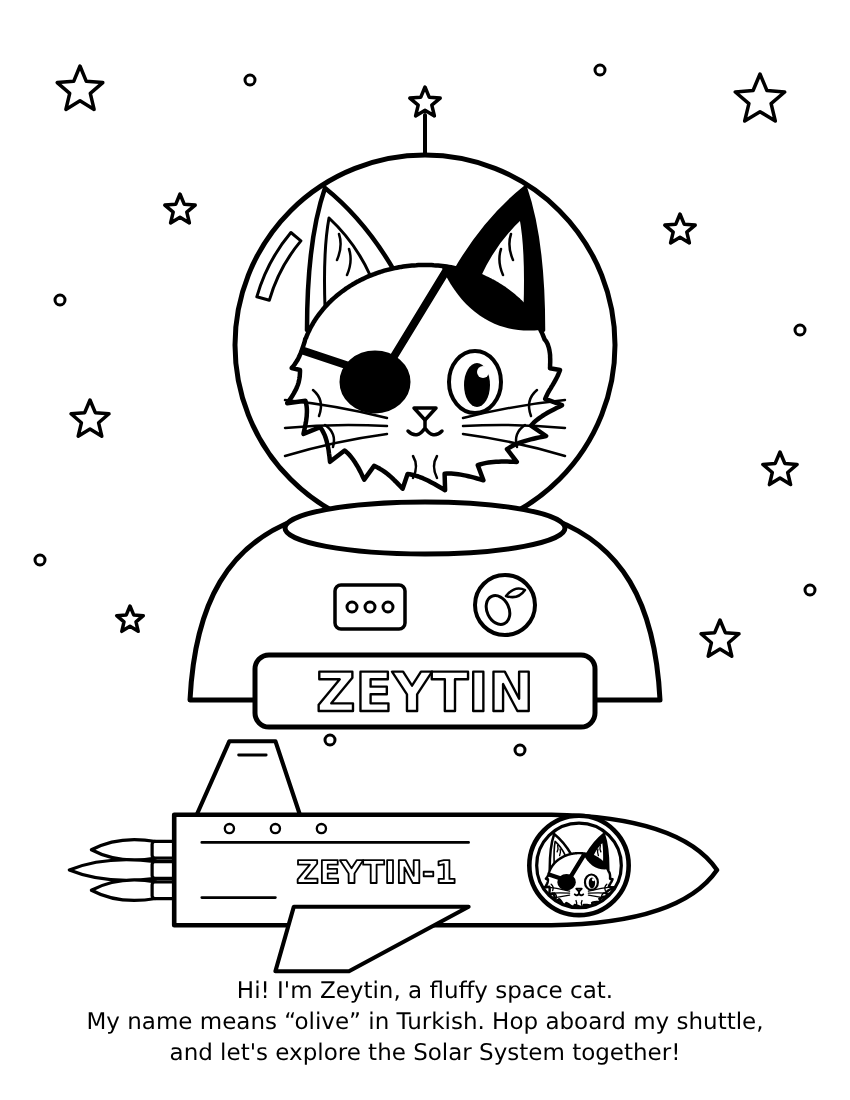
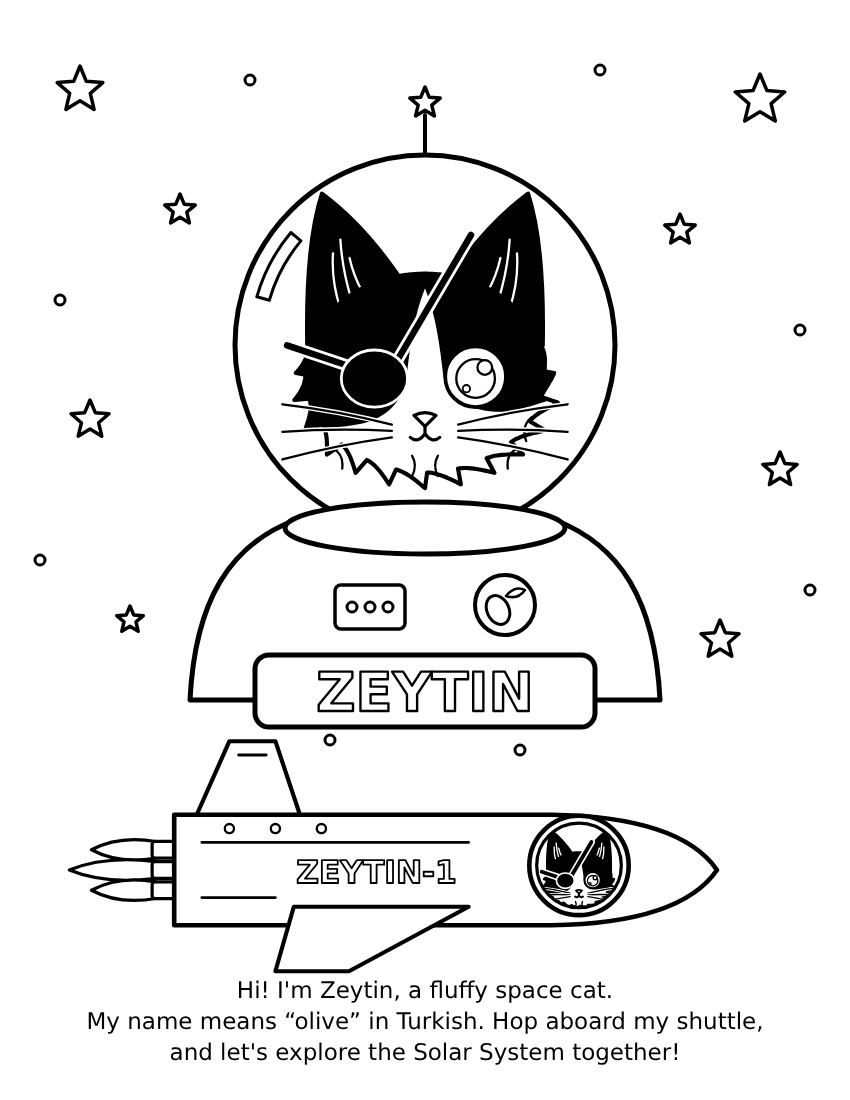
Redraw Zeytin after the real cat's markings
Claude-Session: https://claude.ai/code/session_01EtdBBHMX1q4ropB5Etdgpe

Changed region(s): [[0.3365, 0.1545, 0.6729, 0.4636], [0.6424, 0.7418, 0.7341, 0.8345]]

diff --git a/cocuk-kitabi/kitap.py b/cocuk-kitabi/kitap.py
@@ -31,43 +31,52 @@ def _fluffy_head_path(rx=125, ry=105, tufts=22):
 
 
 def zeytin_head(a, uid, transform, sw=1.0):
-    """Zeytin: long-haired, mostly white, black ear + head patch, pirate eye patch.
-    Drawn around (0,0); sw scales stroke widths for small sizes."""
+    """Zeytin, after the real cat: long-haired, white face/chest/ruff, black ears and
+    black cap that wraps around both eyes (down to the cheek on the viewer's left),
+    white blaze between the eyes, pink nose, one big round pale-blue eye, and a
+    pirate patch over the closed eye. Drawn around (0,0); sw scales strokes."""
     st = lambda w: f'{S} stroke-width="{w*sw:.2f}"'
-    head = _fluffy_head_path()
+    head = _fluffy_head_path(rx=130, ry=108, tufts=24)
     a(f'<g transform="{transform}">')
     a(f'<defs><clipPath id="hc{uid}"><path d="{head}"/></clipPath></defs>')
-    # ears (behind head): left white, right black
-    for sg, fill in ((-1, '#fff'), (1, '#000')):
-        a(f'<path d="M {sg*118},-40 Q {sg*118},-130 {sg*100},-182 Q {sg*60},-150 {sg*30},-98 Z" fill="{fill}" {st(4.5)}/>')
-        a(f'<path d="M {sg*100},-62 Q {sg*102},-120 {sg*96},-152 Q {sg*70},-128 {sg*55},-95 Z" fill="#fff" {st(3)}/>')
-        for dx, dy in ((88, -110), (78, -95)):
-            a(f'<path d="M {sg*dx},{dy} q {sg*-6},-14 {sg*-2},-26" fill="none" {st(2.5)}/>')
+    # big pointed black ears with white inner tufts
+    for sg in (-1, 1):
+        a(f'<path d="M {sg*128},-30 Q {sg*130},-140 {sg*112},-195 Q {sg*65},-160 {sg*25},-100 Z" fill="#000" {st(4.5)}/>')
+        for x0, y0, x1, y1 in ((92, -70, 100, -130), (80, -80, 92, -145), (68, -88, 82, -125)):
+            a(f'<path d="M {sg*x0},{y0} Q {sg*(x0+10)},{(y0+y1)/2} {sg*x1},{y1}" fill="none" stroke="#fff" stroke-linecap="round" stroke-width="{2.5*sw:.2f}"/>')
     a(f'<path d="{head}" fill="#fff" {st(4.5)}/>')
     a(f'<g clip-path="url(#hc{uid})">')
-    # black fur patch over the right side of the forehead
-    a('<path d="M 10,-120 C 30,-60 70,-35 115,-40 C 150,-45 150,-120 120,-140 Z" fill="#000"/>')
-    # pirate patch strap
-    a(f'<path d="M -130,-22 L -70,-2" fill="none" {st(8)}/>')
-    a(f'<path d="M -32,-12 L 40,-130" fill="none" {st(8)}/>')
+    # black cap: over the head, around both eyes, down to the cheek on the viewer's left,
+    # leaving a white blaze that narrows to a point on the forehead
+    a('<path d="M -160,60 L -160,-160 L 160,-160 L 160,22 '
+      'C 130,30 100,44 76,42 C 48,40 26,30 20,4 '
+      'C 16,-30 12,-62 0,-92 '
+      'C -12,-62 -16,-30 -20,4 '
+      'C -24,30 -40,50 -74,56 C -104,62 -140,60 -160,58 Z" fill="#000"/>')
     a('</g>')
-    # cheek fur strokes
+    # white chest/cheek fur strokes
+    for sg in (1,):
+        a(f'<path d="M {sg*116},48 q {sg*-12},10 {sg*-6},26" fill="none" {st(2.5)}/>')
+    a(f'<path d="M -100,82 q 12,6 10,22 M 100,82 q -12,6 -10,22" fill="none" {st(2.5)}/>')
+    a(f'<path d="M -14,112 q 6,-12 0,-22 M 14,112 q -6,-12 0,-22" fill="none" {st(2.5)}/>')
+    # pirate patch over the closed eye (viewer's left), white-rimmed so it reads on black fur
+    a(f'<path d="M -150,-30 L -78,-6 M -30,-14 L 50,-150" fill="none" stroke="#fff" stroke-linecap="round" stroke-width="{13*sw:.2f}"/>')
+    a(f'<path d="M -150,-30 L -78,-6 M -30,-14 L 50,-150" fill="none" stroke="#000" stroke-linecap="round" stroke-width="{7*sw:.2f}"/>')
+    a(f'<ellipse cx="-55" cy="6" rx="36" ry="31" fill="#000" stroke="#fff" stroke-width="{3*sw:.2f}"/>')
+    # big round open eye (viewer's right): pale blue in the colour version
+    a(f'<circle cx="55" cy="4" r="33" fill="#fff" {st(4)}/>')
+    a(f'<circle cx="55" cy="6" r="21" fill="none" {st(2.5)}/>')
+    a(f'<circle cx="65" cy="-6" r="8" fill="#fff" {st(2.5)}/>')
+    a(f'<circle cx="45" cy="17" r="4" fill="#fff" {st(2)}/>')
+    # pink nose, small mouth
+    a(f'<path d="M -12,46 Q 0,40 12,46 L 0,58 Z" fill="#fff" {st(3.5)}/>')
+    a(f'<path d="M 0,58 L 0,66 M -16,70 Q -8,77 0,66 Q 8,77 16,70" fill="none" {st(3.5)}/>')
+    # long whiskers, white-haloed so they show over black fur too
     for sg in (-1, 1):
-        a(f'<path d="M {sg*112},20 q {sg*-12},10 {sg*-6},26" fill="none" {st(2.5)}/>')
-        a(f'<path d="M {sg*100},55 q {sg*-12},8 {sg*-8},22" fill="none" {st(2.5)}/>')
-    a(f'<path d="M -12,108 q 6,-12 0,-22 M 12,108 q -6,-12 0,-22" fill="none" {st(2.5)}/>')
-    # pirate eye patch (cat's right eye, viewer's left)
-    a(f'<ellipse cx="-50" cy="12" rx="34" ry="30" fill="#000" {st(3)}/>')
-    # open eye (viewer's right) — olive green in the colour version
-    a(f'<ellipse cx="50" cy="12" rx="26" ry="31" fill="#fff" {st(4)}/>')
-    a('<ellipse cx="52" cy="15" rx="13" ry="22" fill="#000"/>')
-    a('<circle cx="58" cy="2" r="6" fill="#fff"/>')
-    # nose, mouth, whiskers
-    a(f'<path d="M -11,38 L 11,38 L 0,50 Z" fill="#fff" {st(3.5)}/>')
-    a(f'<path d="M 0,50 L 0,58 M -17,61 Q -8,70 0,58 Q 8,70 17,61" fill="none" {st(3.5)}/>')
-    for sg in (-1, 1):
-        for y0, y1 in ((48, 30), (56, 58), (64, 86)):
-            a(f'<path d="M {sg*38},{y0} Q {sg*90},{(y0+y1)/2-4} {sg*140},{y1}" fill="none" {st(2.5)}/>')
+        for y0, y1 in ((56, 34), (63, 64), (70, 94)):
+            d = f'M {sg*36},{y0} Q {sg*95},{(y0+y1)/2-4} {sg*155},{y1}'
+            a(f'<path d="{d}" fill="none" stroke="#fff" stroke-linecap="round" stroke-width="{5.5*sw:.2f}"/>')
+            a(f'<path d="{d}" fill="none" {st(2.5)}/>')
     a('</g>')
 
 

diff --git a/cocuk-kitabi/karakter-zeytin.py b/cocuk-kitabi/karakter-zeytin.py
@@ -24,7 +24,7 @@ a(f'<ellipse cx="498" cy="610" rx="11" ry="15" transform="rotate(-25 498 610)" f
 a(f'<path d="M 506,596 Q 515,585 525,590 Q 518,600 506,596 Z" fill="#fff" {S} stroke-width="2.5"/>')
 # helmet glass + head
 a(f'<circle cx="{HX}" cy="{HY}" r="{HR}" fill="#fff" {S} stroke-width="5"/>')
-zeytin_head(a, 'big', f'translate({HX},{HY+25})')
+zeytin_head(a, 'big', f'translate({HX},{HY+28}) scale(0.92)')
 # glare strip
 def arc(r, a0, a1):
     return (HX + r*math.cos(math.radians(a0)), HY + r*math.sin(math.radians(a0)),
